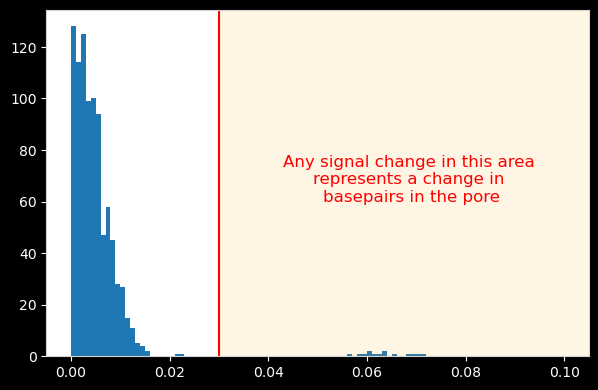
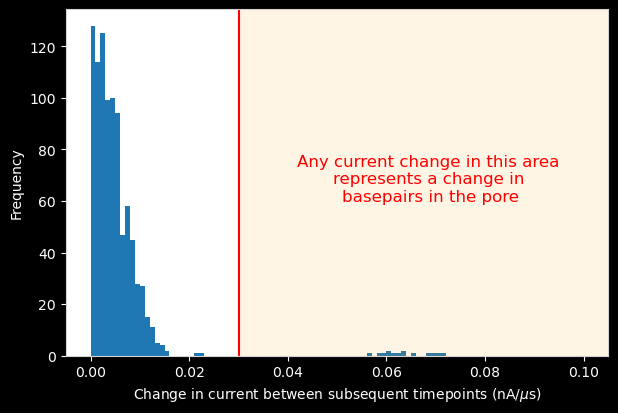
tweak axis labels

Changed region(s): [[0.0, 0.0, 0.9933, 0.9846], [0.4515, 0.3692, 0.903, 0.5231]]

diff --git a/assets/blog-posts/building_a_basecaller.html b/assets/blog-posts/building_a_basecaller.html
@@ -552,7 +552,10 @@ plt.ylabel('Current (nA)');</code></pre>
   <pre
     class="line-numbers"
   ><code class="language-python"># Plot histogram of the smoothed signal
-plt.hist(signal_1.smoothed_signal, bins = 100, range=[0,0.1]);</code></pre>
+plt.hist(signal_1.smoothed_signal, bins = 100, range=[0,0.1]);
+# Add the axis labels
+plt.xlabel('Change in current between subsequent timepoints (nA/$\it{µ}$s)');
+plt.ylabel('Frequency');</code></pre>
   <pre
     class="output-img no-code"
   ><code class="language-output">&nbsp;</code></pre>
@@ -560,7 +563,7 @@ plt.hist(signal_1.smoothed_signal, bins = 100, range=[0,0.1]);</code></pre>
     <img
       class="img-fluid"
       src="assets/img/blog_posts/basecaller_blog_post/histogram.png"
-      alt="histogram of smooth signal"
+      alt="histogram of changes in current between subsequent timepoints"
     />
   </div>
   <p class="blog-post_paragraph">
@@ -582,6 +585,9 @@ plt.hist(signal_1.smoothed_signal, bins = 100, range=[0,0.1]);</code></pre>
     class="line-numbers"
   ><code class="language-python"># Plot histogram with cutoff line
 plt.hist(signal_1.smoothed_signal, bins = 100, range=[0,0.1]);
+# Add the axis labels
+plt.xlabel('Change in current between subsequent timepoints (nA/$\it{µ}$s)');
+plt.ylabel('Frequency');
 # Add a vertical line at the cutoff point
 plt.axvline(x = cutoff, color = 'red')
 # Limit the x-axis to the right of the cutoff
@@ -589,7 +595,7 @@ plt.xlim(right=0.105)
 # Highlight the area to the right of the cutoff
 plt.axvspan(xmin=cutoff, xmax=0.12, color='orange', alpha=0.1);
 # Add text to the plot
-plt.text(0.069, 60, 'Any signal change in this area \nrepresents a change in \nbasepairs in the pore', fontsize = 12, color = "red", horizontalalignment = "center");</code></pre>
+plt.text(0.069, 60, 'Any current change in this area \nrepresents a change in \nbasepairs in the pore', fontsize = 12, color = "red", horizontalalignment = "center");</code></pre>
   <pre
     class="output-img no-code"
   ><code class="language-output">&nbsp;</code></pre>
@@ -597,7 +603,7 @@ plt.text(0.069, 60, 'Any signal change in this area \nrepresents a change in \nb
     <img
       class="img-fluid"
       src="assets/img/blog_posts/basecaller_blog_post/histogram_w_cutoff.png"
-      alt="histogram of smooth signal with cutoff line"
+      alt="histogram of changes in current between subsequent timepoints with cutoff line"
     />
   </div>
   <p class="blog-post_paragraph">
@@ -620,7 +626,7 @@ plt.ylim(top=0.99)
 # Highlight the area above the cutoff
 plt.axhspan(ymin=cutoff, ymax=1, color='orange', alpha=0.1);
 # Add text to the plot
-plt.text(82, 0.2, f'Signal deltas \n(orange lines) \nin this area \n (exceeding the \nthreshold of {cutoff})\nrepresents a \n change in \nbasepairs \nin the pore', fontsize = 10, color = "red", horizontalalignment="center");</code></pre>
+plt.text(82, 0.2, f'Current changes \n(orange lines) \nin this area \n (exceeding the \nthreshold of {cutoff})\nrepresents a \n change in \nbasepairs \nin the pore', fontsize = 10, color = "red", horizontalalignment="center");</code></pre>
   <pre
     class="output-img no-code"
   ><code class="language-output">&nbsp;</code></pre>
@@ -1194,7 +1200,10 @@ print(f"The lengths (aka number of timepoints in) of the capture ranges are: {so
   <pre
     class="line-numbers"
   ><code class="language-python"># Plot a histogram of the capture range lengths
-plt.hist(capture_ranges_lengths, bins=25, range=[0,30]);</code></pre>
+plt.hist(capture_ranges_lengths, bins=25, range=[0,30]);
+# Add the axis labels
+plt.xlabel('Duration of capture events ($\it{µ}$s)');
+plt.ylabel('Frequency');</code></pre>
   <pre
     class="output-img no-code"
   ><code class="language-output">&nbsp;</code></pre>
@@ -1202,7 +1211,7 @@ plt.hist(capture_ranges_lengths, bins=25, range=[0,30]);</code></pre>
     <img
       class="img-fluid"
       src="assets/img/blog_posts/basecaller_blog_post/capture_length_histogram.png"
-      alt="histogram of capture range lengths"
+      alt="histogram of capture range durations"
     />
   </div>
   <p class="blog-post_paragraph">
@@ -1219,6 +1228,9 @@ plt.hist(capture_ranges_lengths, bins=25, range=[0,30]);</code></pre>
     class="line-numbers"
   ><code class="language-python"># Plot a histogram of the capture range lengths
 plt.hist(capture_ranges_lengths, bins=25, range=[0,30]);
+# Add the axis labels
+plt.xlabel('Duration of capture events ($\it{µ}$s)');
+plt.ylabel('Frequency');
 # add a vertical line to show the cutoff
 plt.axvline(x = homopolymer_cutoff, color = 'purple');
 # Limit the x-axis to the right of the cutoff
